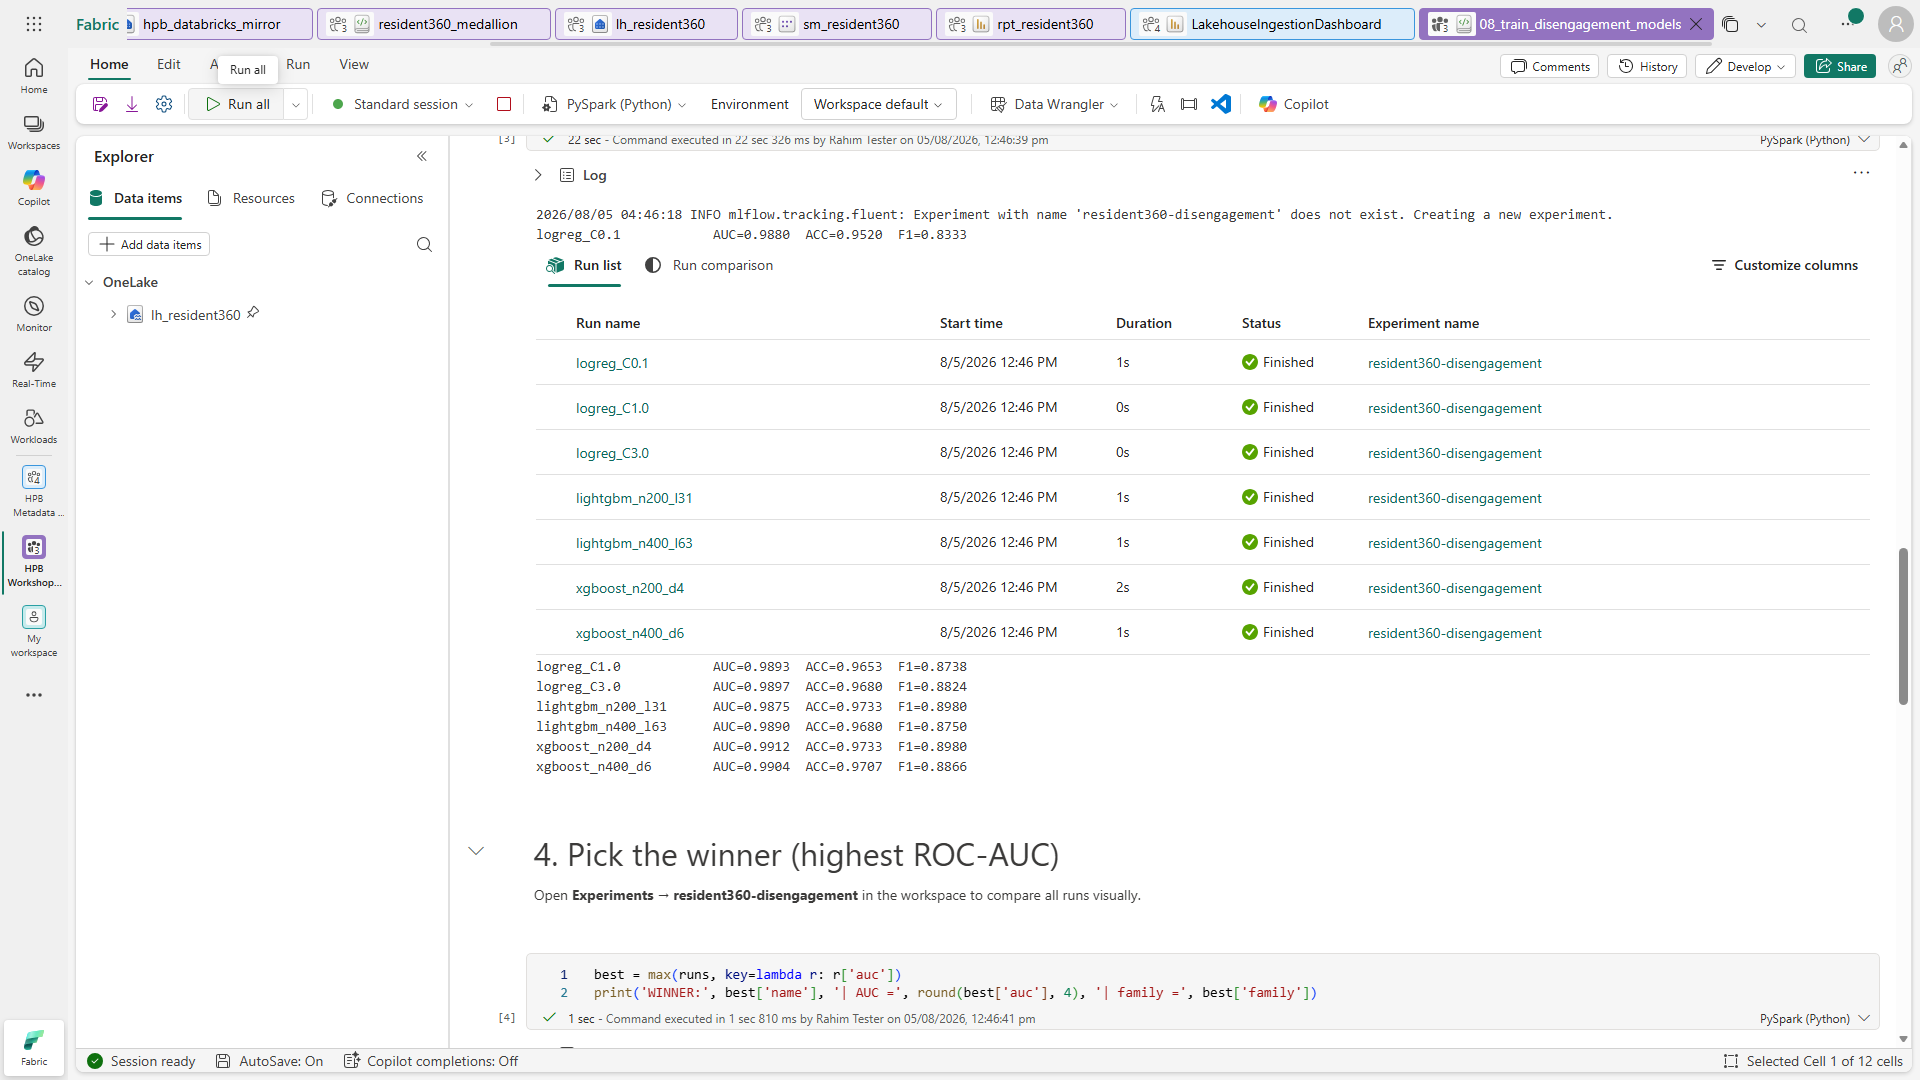
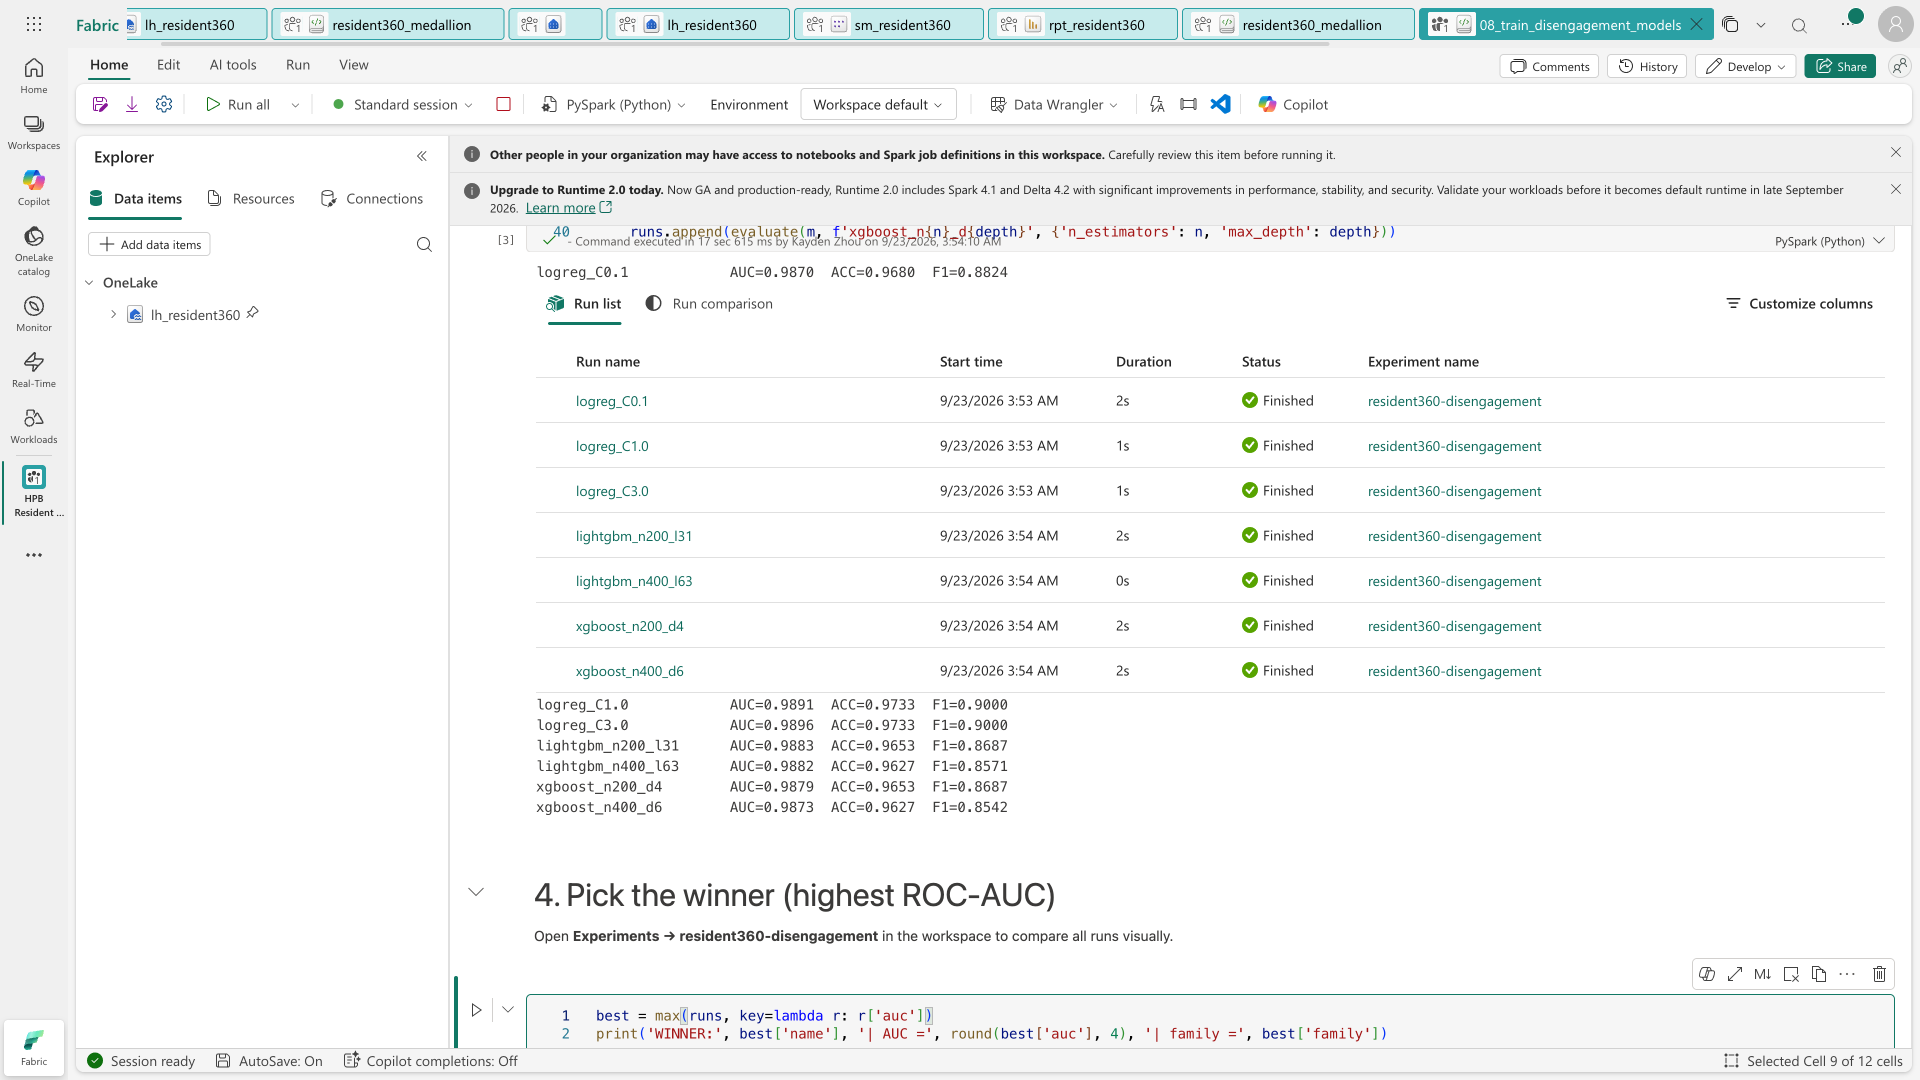
docs(lab3): recapture as participant; fix the Run all kernel-restart claim
Tasks 1, 2 and 4A recaptured end to end as the participant account. The run
reproduces the guide's reference exactly: 7 MLflow runs, winner logreg_C3.0
at ROC-AUC 0.9896, and registry scoring returns [1, 1, 1, 0, 0] for the three
at-risk and two engaged residents the notebook samples.

Guide correction, Task 1. The note said the dependency cell's kernel restart
was "expected and the run continues automatically". It does not continue: the
restart ABORTS Run all. The status bar drops to "Not connected", cells 2
onwards never execute, and nothing reports it - the notebook simply sits
there looking finished with no model registered. This cost several diagnostic
runs before the cause was visible in cell 1's own output. The note now tells
participants to click Run all a second time, and explains that a warm session
skips the install entirely so they may never see it.

Tasks 3 and 4B (endpoint activation and the live REST call) are NOT yet
recaptured; the existing images for those remain in place.

Copilot-Session: 85c177c5-2f1b-410d-88d1-68692b45b3ee

diff --git a/lab3-datascience-ml/README.md b/lab3-datascience-ml/README.md
@@ -70,10 +70,17 @@ flowchart LR
 > run, plus the model **`resident360_disengagement`** registered in the workspace. The screenshot is illustrative;
 > exact winner and metrics can vary.
 
-> **Note:** The dependency cell installs LightGBM/XGBoost only **if the session lacks them** (~1 min, with one
-> kernel restart) — that's expected and the run continues automatically. In practice the Fabric ML runtime
-> already ships them (observed: **LightGBM 4.3.0**, **XGBoost 2.0.3**), so the install is normally skipped and
-> the cell just prints the versions. You do not need to add a `pip install` of your own.
+> ⚠ **On a cold session, `Run all` stops after the first cell — click `Run all` again.**
+> The dependency cell installs LightGBM/XGBoost when the session lacks them (~1 min) and then **restarts the
+> kernel**. That restart **aborts the rest of the `Run all`**: the status bar drops to **Not connected**, cells
+> 2 onwards never execute, and *nothing tells you*. Cell 1 shows
+> `Warning: PySpark kernel has been restarted to use updated packages.` — when you see that, simply click
+> **Run all** a second time. The packages are installed by then, so the second pass runs straight through
+> (about 2 minutes) and no further restart happens.
+>
+> On a warm session the imports succeed, no install or restart occurs, and the first `Run all` completes
+> normally. Either way you do not need to add a `pip install` of your own. Observed versions:
+> **LightGBM 4.3.0**, **XGBoost 2.0.3**.
 
 ### Task 2 — Compare runs in the experiment
 1. Workspace → open **Experiments → `resident360-disengagement`**.
